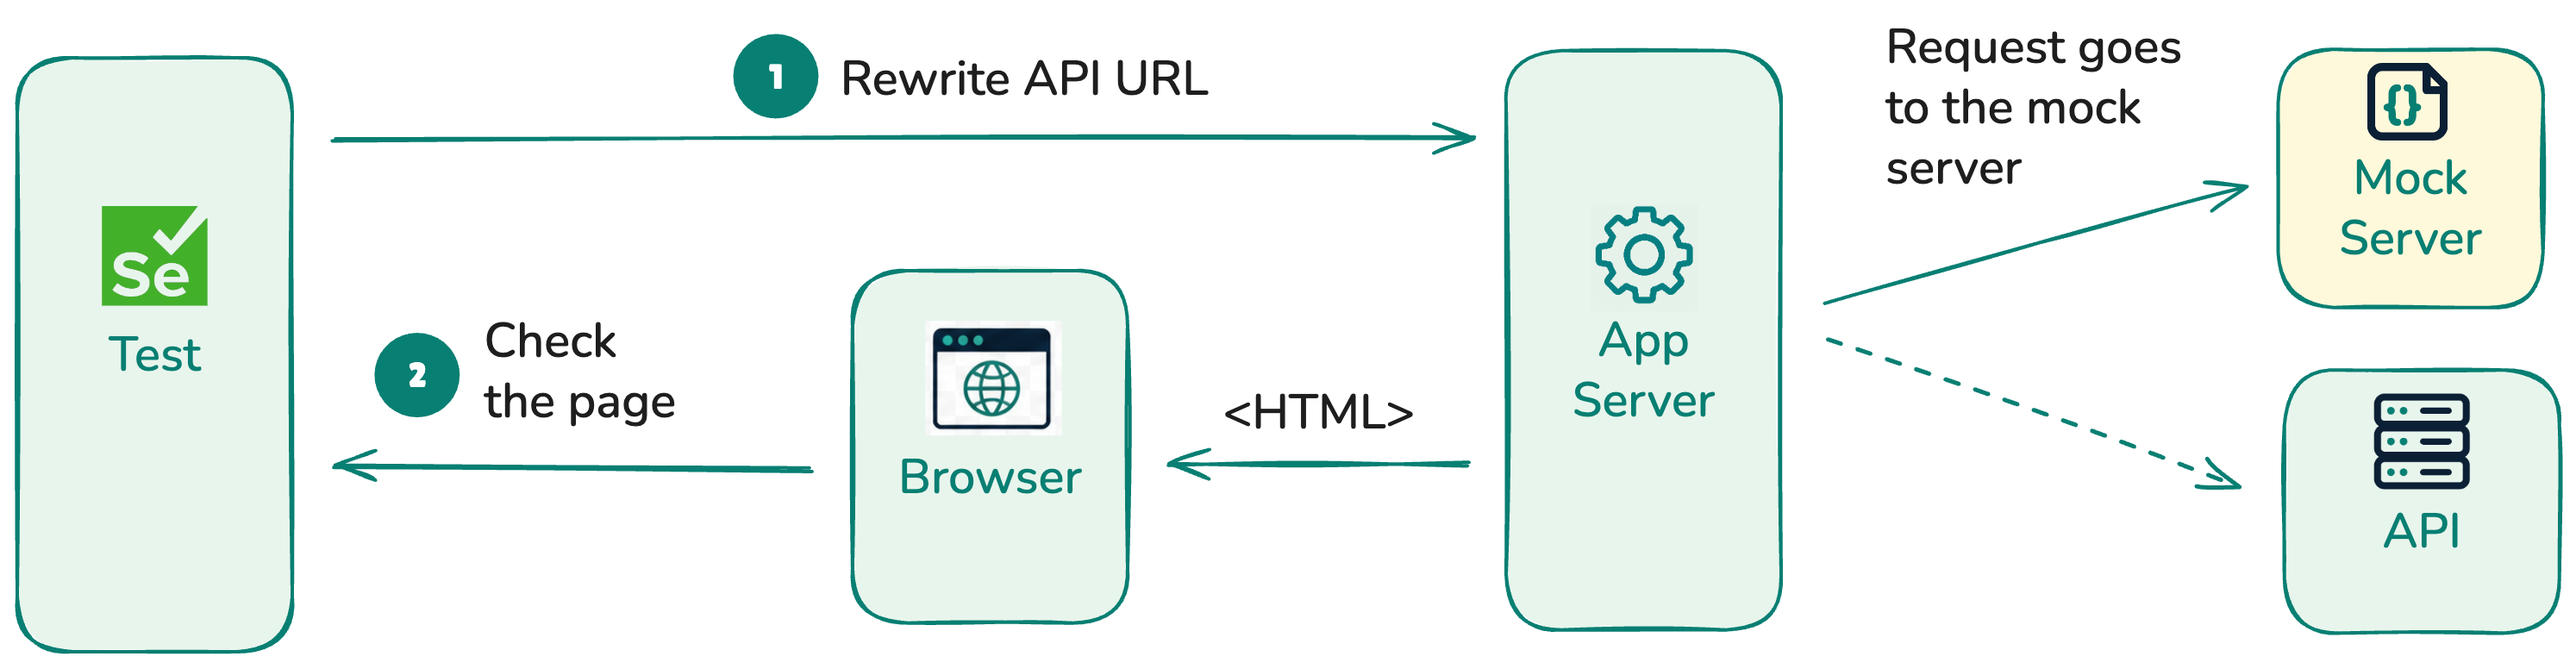
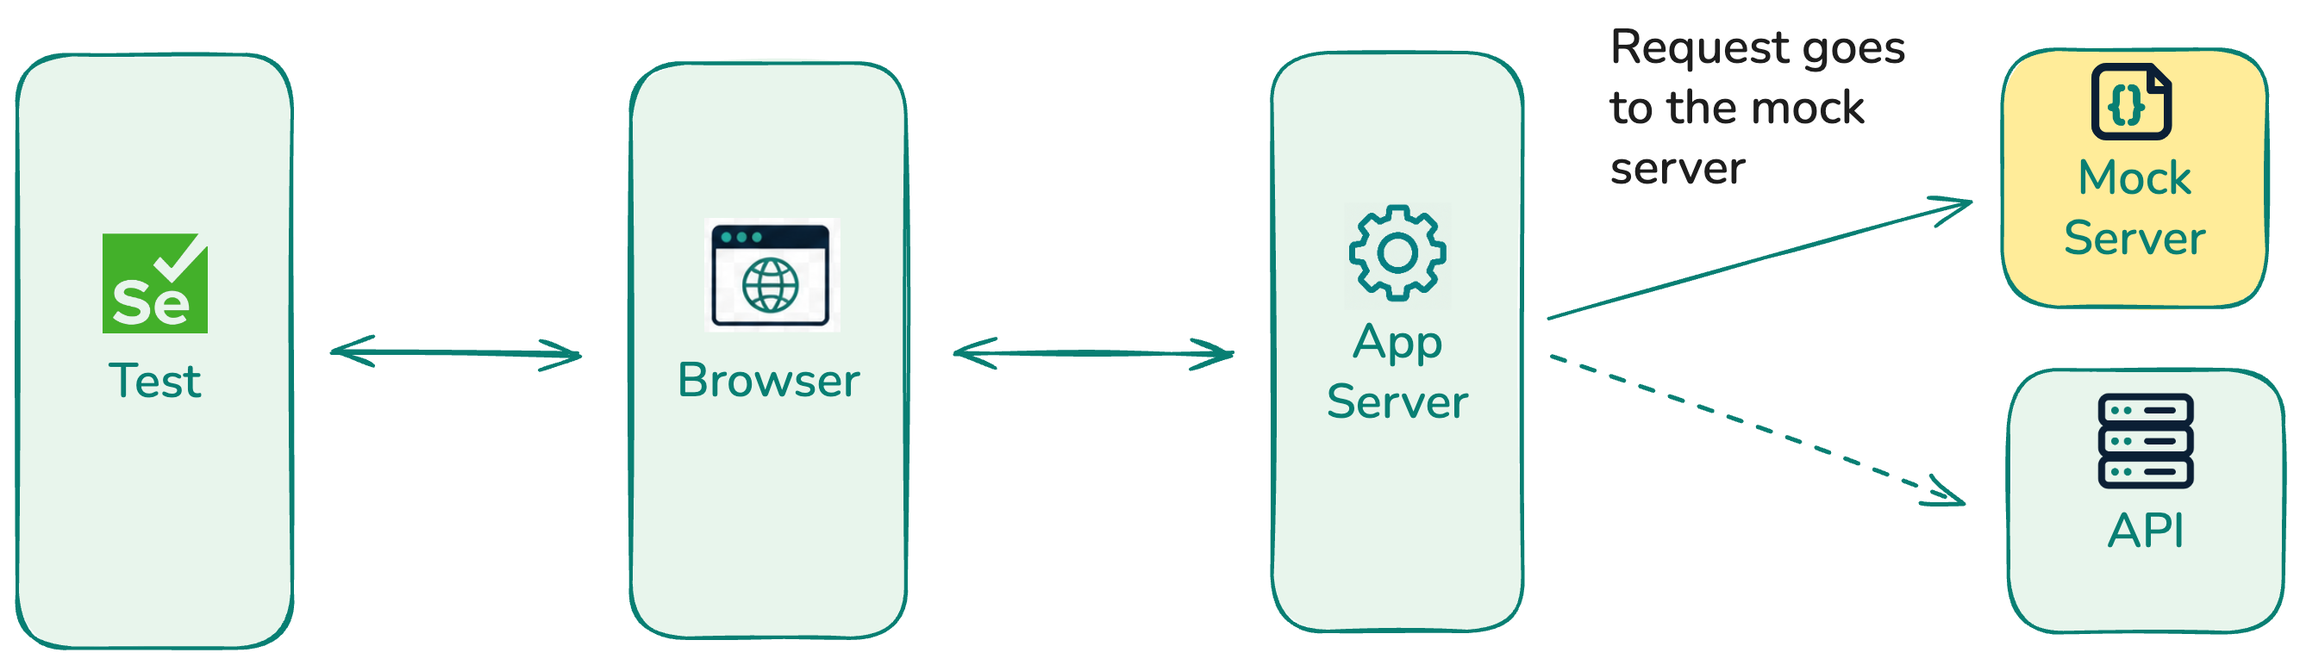
wip

diff --git a/style.css b/style.css
@@ -50,10 +50,14 @@
 }
 
 .slidev-layout p,
-.slidev-layout li,
 .slidev-layout td,
 .slidev-layout blockquote {
   color: var(--deck-muted);
+}
+
+.slidev-layout li {
+  color: var(--deck-muted);
+  font-size: 1.8rem;
 }
 
 .slidev-layout strong {
@@ -174,13 +178,17 @@
   align-self: flex-start;
 }
 
-.demo-application-slide h1 {
-  margin-top: auto;
+.demo-content {
+  flex: 1;
+  display: flex;
+  flex-direction: column;
+  align-items: center;
+  justify-content: center;
+  gap: 1rem;
 }
 
-.demo-application-slide .demo-link-wrap {
-  margin-bottom: auto;
-  margin-top: 1rem;
+.slidev-layout .demo-content p {
+  opacity: 1;
 }
 
 .demo-link {

diff --git a/pages/server-side-rendering.md b/pages/server-side-rendering.md
@@ -3,10 +3,19 @@
 
 # What about server-side rendering?
 
+<v-clicks>
+
 - Users are rendered into HTML on the server
 - No browser-side request to `/users`
-- How to mock it?
 
-<div class="demo-link-wrap" style="margin-top: 2rem;">
+</v-clicks>
+
+<v-click>
+
+> 🤔 **How to mock?**
+
+</v-click>
+
+<!-- <div v-click class="demo-link-wrap" style="margin-top: 2rem;">
   <a class="demo-link" href="http://localhost:3000/ssr" target="_blank" rel="noreferrer" tabindex="-1" @mousedown.prevent>http://localhost:3000/ssr</a>
-</div>
+</div> -->

diff --git a/pages/no-mocking-result.md b/pages/no-mocking-result.md
@@ -4,9 +4,9 @@
 
 | Scenario | Result |
 | --- | --- |
-| **Normal list** | ⚠ Flaky due to API response variability |
+| **Normal load** | ⚠ Flaky due to API response variability |
 | **Empty list** | ❌ Not available: can't control the API response |
 | **API error** | ❌ Not available: can't force the server to fail |
 
-> ❗ Without mocking, tests are **flaky** and coverage is **limited**.
+> ❗ Without mocking, tests are **flaky** and scenario coverage is **limited**.
 

diff --git a/pages/demo-app.md b/pages/demo-app.md
@@ -4,9 +4,11 @@ class: demo-application-slide
 
 ###### DEMO APPLICATION
 
+<div class="demo-content">
+
 # Meet the app
 
-<div class="demo-link-wrap">
-  <a class="demo-link" href="http://localhost:3000" target="_blank" rel="noreferrer" tabindex="-1" @mousedown.prevent>http://localhost:3000</a>
+<a class="demo-link" href="http://localhost:3000" target="_blank" rel="noreferrer" tabindex="-1" @mousedown.prevent>http://localhost:3000</a>
+
 </div>
 

diff --git a/pages/about-me.md b/pages/about-me.md
@@ -11,7 +11,7 @@ layoutClass: gap-10 about-me-slide
 - 💊 Pharma
 - 👨💻 Full-stack, TypeScript, Next.js
 - 🚀 Open source, `playwright-bdd`
-- 😱 Wrote first test 14 years ago
+- 😱 Wrote my first test 14 years ago
 
 ::right::
 
@@ -19,6 +19,3 @@ layoutClass: gap-10 about-me-slide
 
 ![My first test](/first-test.png)
 
-<!--
-Cue: Mention pharma work, JS/Next.js stack, open-source maintenance, and playwright-bdd.
--->

diff --git a/pages/server-side-rmp.md b/pages/server-side-rmp.md
@@ -1,15 +1,13 @@
 ###### Alternative
 
-# Mock via HTTP Header
-
-Put the whole mock data into a custom HTTP header.
+# Mock data in HTTP Header
 
 <div v-click>
 
 ![RMP](/rmp-schema.png)
 
 ```http
-x-mock-request: {"url":"/users","status":200,"body":[...]}
+x-mock-request: [{"url":"/users","status":200,"body":[{"id":1,"name":"User 1"},...
 ```
 
 </div>

diff --git a/pages/no-mocking-1.md b/pages/no-mocking-1.md
@@ -1,0 +1,16 @@
+###### No mocks
+
+# First attempt: no mocking
+
+<v-clicks>
+
+- Load the app.
+- Assert there are users in the list.
+
+</v-clicks>
+
+<div v-click>
+
+<a href="vscode://file/Users/vitalets/projects/selenium-nodejs-request-mocks/test/no-mocks.test.js:8" @mousedown.prevent>▶ Check the test</a>
+
+</div>

diff --git a/pages/client-side-mocking-schema.md b/pages/client-side-mocking-schema.md
@@ -8,10 +8,7 @@ class: client-side-mocking-slide
 
 <div v-click>
 
-![client-side-mocking](/client-side-mocks.png)
+![client-side-schema](/client-side-schema.png)
 
 </div>
 
-<!--
-Cue: Introduce the core idea: intercept the request and return known data before the real API is touched.
--->

diff --git a/slides.md b/slides.md
@@ -42,7 +42,7 @@ src: ./pages/test-cases.md
 ---
 
 ---
-src: ./pages/no-mocking-code.md
+src: ./pages/no-mocking-1.md
 ---
 
 ---
